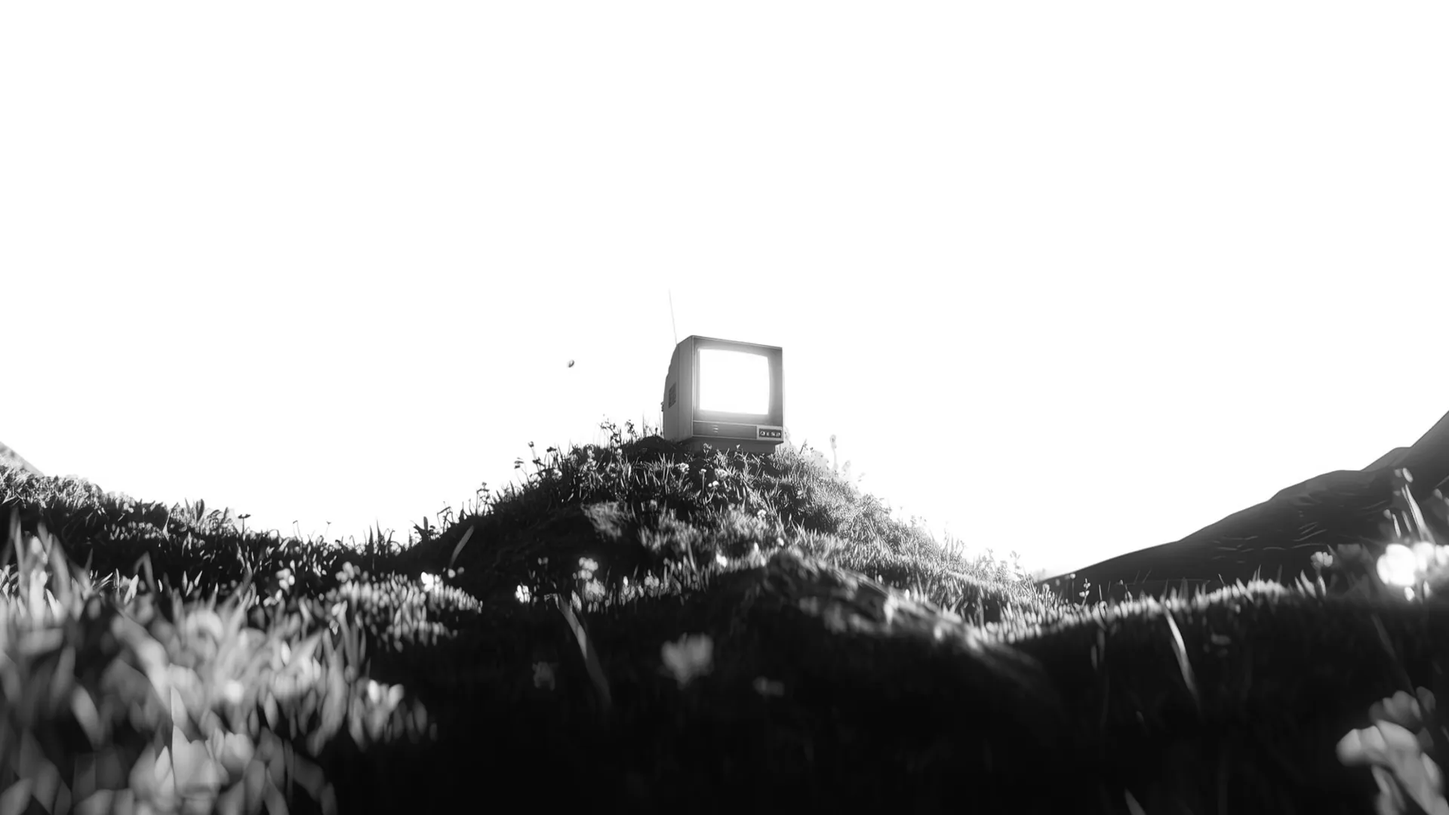
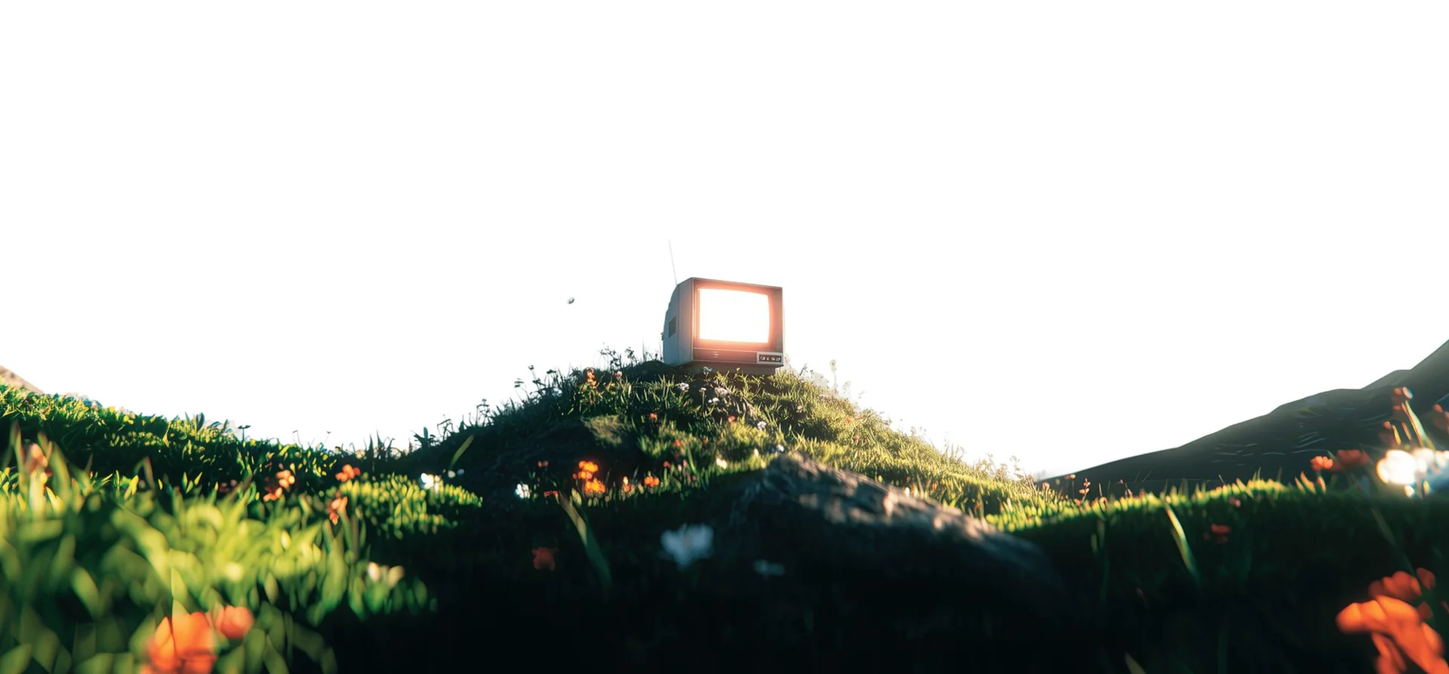
feat(pitch): bring color and visual storytelling to every slide

diff --git a/pitch/src/color.css b/pitch/src/color.css
@@ -1,0 +1,28 @@
+:root{--grass:#25634a;--leaf:#a9c77b;--poppy:#ff6b35;--cream:#faf4e8;--earth:#222b24;--sky:#e4f0f5}
+.slide{color:var(--earth)}.dark-slide{color:#fff}.eyebrow{color:var(--grass)}.progress{background:var(--grass)}.dark-slide .progress{background:var(--leaf)}
+.tutorial-wall{position:absolute;inset:-150px -60px;display:grid;grid-template-columns:repeat(4,1fr);gap:28px;transform:rotate(-9deg);animation:wall-drift 35s ease-in-out infinite alternate;opacity:.83}
+.thumbnail{border-radius:20px;overflow:hidden;background:white;box-shadow:0 10px 30px #142d2515;align-self:start}.thumbnail:nth-child(even){transform:translateY(90px)}.thumbnail-art{height:250px;background:var(--app);position:relative;overflow:hidden;color:white}.thumbnail-art>b{position:absolute;left:32px;top:25px;font-size:66px;letter-spacing:-4px}.thumbnail-art svg{position:absolute;right:-10px;bottom:0;width:270px;stroke:white;stroke-width:2;fill:#ffffff16;transform:rotate(-12deg)}.thumbnail-art small{position:absolute;right:15px;bottom:15px;background:#131b22dd;padding:7px 10px;border-radius:5px;font:16px var(--mono)}.thumbnail p{font-size:23px;padding:20px 24px}.play-symbol{position:absolute;top:42%;left:46%;background:#ffffffdd;color:var(--app);border-radius:50%;width:62px;height:62px;text-align:center;line-height:62px}
+.cold{position:relative;z-index:1}.cold h1{font-size:137px;background:#fffffff2;padding:52px 75px 60px;border-radius:28px;box-shadow:0 20px 70px #18352420;border:1px solid #fff;backdrop-filter:blur(12px);max-width:1450px}.slide-1 footer{color:#223f31}
+.slide-2{background:#16231d}.slide-2 h1{font-size:67px}.slide-2 .eyebrow{margin-bottom:24px;color:#b7ce9a}.pain-windows{display:grid;grid-template-columns:1fr 140px 1fr;align-items:center;margin-top:35px}.mini-app{border-radius:18px;border:1px solid #ffffff25;overflow:hidden;background:#28312f;color:#e3ebe6;box-shadow:0 22px 50px #0002}.mini-title{height:42px;background:#36433d;display:flex;gap:8px;align-items:center;padding:0 17px;font-size:13px}.mini-title i{width:9px;height:9px;border-radius:50%;background:#ed7152}.mini-title i:nth-child(2){background:#eac272}.mini-title i:nth-child(3){background:#a0c780}.mini-title span{margin-left:14px;flex:1}.mini-title b{float:right;font:12px var(--mono);color:#bdcaba}.mini-menu{font-size:17px;padding:14px 20px;background:#414942}.mini-menu em{font-style:normal;color:#ff9b69}.mini-canvas{height:235px;position:relative;background:#26312e}.mini-canvas svg{width:100%;height:100%;stroke:#78918640;fill:none}.mini-canvas ellipse{stroke:#ed9560;stroke-width:15;fill:#dbba8d25}.mini-canvas ellipse:last-child{stroke-width:2;fill:#253e33}.mini-dropdown{position:absolute;left:80px;top:14px;display:grid;padding:12px;background:#536150;border:1px solid #adbc9a44;border-radius:9px;box-shadow:0 10px 15px #0003;font-size:16px;min-width:140px}.mini-dropdown span,.mini-dropdown strong{padding:6px 14px}.mini-dropdown strong{background:#e6905a;color:#241e16;border-radius:4px;font-weight:500}.mini-dropdown.moved{left:auto;right:35px;top:35px}.mini-dropdown.moved strong{background:#7e5541;color:#ffd7b2}.question-marker{position:absolute;right:10px;bottom:15px;background:var(--poppy);width:60px;height:60px;border-radius:50%;text-align:center;font:500 42px var(--sans);line-height:60px;color:#fff;box-shadow:0 8px 20px #0003}.youtube-controls{display:flex;align-items:center;gap:18px;padding:10px 16px;background:#121615}.youtube-controls i{height:5px;border-radius:4px;background:#fa423b;width:65%}.youtube-controls small{font:11px var(--mono)}.alt-tab{text-align:center;color:#f7ac78}.alt-tab>span{display:block;font-size:75px;animation:bounce-tab 1.4s ease-in-out infinite alternate}.alt-tab label{font-size:13px;color:#bed2bd}
+.slide-2 .timeline{margin-top:25px}.slide-2 .video-time{font-size:30px}.slide-2 .track{height:7px;margin-top:12px;background:#ff6b35}.slide-2 .markers{padding-top:15px}.slide-2 .markers span{padding:10px 24px;background:#3c523e;color:#e8f5ce;border-color:#9cae7155}.slide-2 .markers span:nth-child(2){background:#654836;color:#ffcca3}.slide-2 .markers span:nth-child(3){background:#2f4e59;color:#c0e1e7}.slide-2 .elapsed{position:absolute;right:0;bottom:-38px;margin:0}.slide-2 .elapsed .time-digits{font-size:126px;color:var(--poppy)}
+.slide-3{background:var(--cream)}.slide-3 .eyebrow{margin-bottom:25px}.slide-3 h1{font-size:91px}.mismatch{display:grid;grid-template-columns:1fr 100px 1fr;align-items:center;margin-top:65px}.mismatch>div>label{color:var(--grass);font-size:16px;margin-bottom:20px}.mismatch-arrow{text-align:center;font-size:70px;color:#bf6240}.mismatch .mini-canvas{height:310px}.mismatch .mini-dropdown{top:30px;font-size:21px;min-width:190px}.mismatch .mini-title{height:50px;font-size:17px}.mismatch .mini-menu{font-size:22px}.mismatch .youtube-controls{height:45px}.mismatch .mini-app:not(.video-app){padding-bottom:45px}.slide-3 .sub{font-size:28px;margin-top:32px}
+.slide-4 .reveal>img{margin-bottom:17px;width:46px;height:46px}.slide-4 .reveal .eyebrow{margin-bottom:18px;font-size:14px}.slide-4 .reveal h1{font-size:125px}.slide-4 .reveal .sub{max-width:700px;font-size:25px;margin-top:16px}.slide-4 .brand-scene,.slide-16 .brand-scene{transform-origin:50% 70%}.slide-4 .cursor{top:205px!important}.slide-16 .closing h1{font-size:117px}.slide-16 .closing .mark{width:46px;margin-bottom:20px}.slide-16 .closing .sub{font-size:25px;margin-top:20px}
+.demo>div:last-child{filter:none}.window-dots i{background:#ee755b}.window-dots i:nth-child(2){background:#e3bc62}.window-dots i:nth-child(3){background:#75ad71}.feature{grid-template-columns:.82fr 1.18fr;gap:80px;height:775px}.feature h1{font-size:72px}.feature .sub{font-size:26px;max-width:560px}.feature-stage{position:relative;min-height:740px;display:flex;align-items:center;padding:70px 24px;background:#f8e9da;border-radius:45px}.feature-stage .demo{position:relative;width:100%;z-index:1;background:#fffaf3;border-color:#ebc8a0;box-shadow:0 35px 60px -25px #75422440}.feature-stage .demo-label{color:#9c5024}.feature-stage-1{background:#e5efdc}.feature-stage-1 .demo{background:#f5f9f0;border-color:#b5cf9b}.feature-stage-1 .demo-label{color:#216c3b}.feature-stage-2{background:#e5f0f2}.feature-stage-2 .demo{background:#f5fbfb;border-color:#bad7dc}.feature-stage-2 .demo-label{color:#3b7f8c}.feature-stage-3{background:#f4efd9}.feature-stage-3 .demo{background:#fffcf1;border-color:#ded1a0}.feature-stage-3 .demo-label{color:#88732f}.feature-stage-4{background:#e0eadd}.feature-stage-4 .demo{background:#f2f7ed;border-color:#aeca9f}.feature-stage-4 .demo-label{color:#29633f}
+.feature-life{position:absolute;inset:0;z-index:2;pointer-events:none;font-size:21px}.feature-life>div{box-shadow:0 16px 35px #243a2920;border:1px solid #ffffffcf}.feature-life label{font-size:11px;color:var(--grass);margin-bottom:7px}.link-chip{position:absolute;left:-40px;top:20px;display:flex;align-items:center;gap:15px;background:#fff;padding:21px 25px;border-radius:17px;font:19px var(--mono);transform:rotate(-3deg)}.youtube-brand{background:#ef3832;color:#fff;padding:4px 12px;border-radius:7px}.transform-arrow{position:absolute;right:85px;top:25px;font-size:75px;color:#bc6b3c}.steps-card{position:absolute;right:-15px;bottom:12px;background:#fff;padding:18px 24px;border-radius:18px;width:355px;transform:rotate(3deg)}.steps-card>div{display:flex;align-items:center;gap:15px;padding:9px 0;font-size:19px}.steps-card b{display:grid;place-items:center;width:29px;height:29px;border-radius:50%;font:13px var(--mono);background:#e9b57e;color:#703e24}.steps-card>div:nth-child(2) b{background:#bed1a0;color:#275337}.steps-card>div:nth-child(3) b{background:#bfdae0;color:#275366}.steps-card span{margin-left:auto;color:var(--grass)}.verified-card{position:absolute;left:-30px;bottom:28px;background:#fff;padding:23px;border-radius:18px;display:flex;align-items:center;gap:17px;transform:rotate(-3deg)}.verified-card>span{background:var(--grass);color:#fff;width:42px;height:42px;border-radius:50%;display:grid;place-items:center}.target-ring{position:absolute;right:110px;top:155px;width:65px;height:65px;border:3px solid #ff6b35!important;border-radius:50%;box-shadow:0 0 0 12px #ff6b3518!important}.voice-card{position:absolute;top:15px;left:-30px;padding:18px 28px;background:#fff;border-radius:20px;transform:rotate(-3deg)}.waveform{height:65px;display:flex;align-items:center;gap:6px}.waveform i{width:6px;background:#328b82;border-radius:6px;animation:voice-wave .8s ease-in-out infinite alternate}.waveform i:nth-child(3n){background:var(--poppy)}.voice-card>span{font:12px var(--mono);color:#568078}.chat-card{position:absolute;right:-10px;bottom:24px;background:#fff;padding:23px 28px;border-radius:22px 22px 4px 22px;transform:rotate(2deg)}.chat-card b{display:block;font-weight:450;color:var(--grass);margin-top:12px;font-size:18px}.goal-card{position:absolute;top:18px;left:-30px;right:30px;padding:20px 25px;background:#fff;border-radius:18px;transform:rotate(-2deg)}.goal-card span{float:right;background:var(--grass);color:white;padding:2px 8px;border-radius:5px}.source-cards{position:absolute;bottom:25px;left:25px;right:25px;display:flex;gap:13px;box-shadow:none!important;border:0!important}.source-cards>div{background:#fff;padding:18px;flex:1;border-radius:15px;box-shadow:0 10px 30px #4f482e20;display:flex;align-items:center;gap:13px;animation:source-pop .9s ease both}.source-cards i{font-style:normal;font-size:30px;color:#b78235}.source-cards span{margin-left:auto;color:var(--grass)}.consent-card{position:absolute;bottom:18px;left:-30px;right:30px;display:flex;align-items:center;gap:20px;background:#fff;padding:25px 30px;border-radius:21px;transform:rotate(-2deg)}.consent-toggle{margin-left:auto;display:block;background:var(--grass);padding:5px;border-radius:40px;width:77px;height:42px}.consent-toggle i{display:block;width:32px;height:32px;border-radius:50%;background:#fff;transform:translateX(35px);animation:toggle-on .9s ease both}.consent-card>b{color:var(--grass)}
+.power-strip{display:flex;align-items:center;gap:25px;padding:24px 0 0;margin-top:12px;border-top:1px solid #dde5d9}.power-strip label{font-size:12px;letter-spacing:.1em}.power-strip .pills{margin:0}.brand-chip,.pills span{background:#f3f5ec;font-size:14px;border-color:#e0e5d4}.pills .brand-gladia{color:#bd4732;background:#fff0e8}.pills .brand-holo,.pills .brand-h{color:#203e2b;background:#e6efdf}.pills .brand-linkup{color:#236fbb;background:#edf5fd}.pills .brand-gradium{color:#206c62;background:#edf5ec}.pills .brand-devin{color:#1d4f9b;background:#eaf1fc}.stripe-word{color:#635bff}
+.team-life{margin-top:30px}.avatar-stack{display:flex;align-items:center;padding-left:5px}.avatar-stack>span{border:4px solid #fff;width:62px;height:62px;display:grid;place-items:center;border-radius:50%;background:#dda36f;color:#4c3820;font:17px var(--mono);margin-left:-5px}.avatar-stack>span:nth-child(2){background:#a2c18c;color:#244830}.avatar-stack>span:nth-child(3){background:#abcad4;color:#2f5268}.avatar-stack>span:nth-child(4){background:#eec4a9;color:#815039}.avatar-stack small{font:13px var(--mono);margin-left:15px;color:var(--grass)}.usage-chart{background:#f0f4e9;border:1px solid #dbe6cf;border-radius:19px;width:435px;margin-top:23px;padding:20px 25px}.usage-chart label{font-size:12px;color:var(--grass)}.usage-chart>div{height:125px;display:flex;gap:15px;align-items:flex-end;margin-top:17px}.usage-chart i{flex:1;background:#91b373;border-radius:6px 6px 0 0;animation:bar-grow .8s ease both;transform-origin:bottom}.usage-chart i:nth-child(3n){background:#ed9a66}.usage-chart i:last-child{background:var(--grass)}.usage-chart>span{display:block;font:10px var(--mono);color:#627356;margin-top:10px}.usage-chart b{float:right;font-weight:400}.teams{height:830px}.teams h1{font-size:73px}.console-mock{border-color:#d0ddc5;box-shadow:0 30px 75px #26412e20;transform:rotate(1deg);background:#fff}.console-top{background:#eef4e6}.console-avatar{background:#b3d2a6;color:#275333}.console-body nav{background:#f5f8f0}.console-body nav .selected{background:#ddebd3;color:#235235}.console-add{background:var(--grass)}.console-result{background:#fffaf0;border-color:#e4dcc9}.console-result:nth-of-type(4){background:#f1f6ed;border-color:#dce6d3}.console-ready{background:#dfecd5;color:#315b35}
+.illustration{width:220px;height:145px;stroke:currentColor;stroke-width:3;stroke-linecap:round;stroke-linejoin:round}.illustration rect,.illustration circle{fill:currentColor;fill-opacity:.08}.prices{margin-top:40px;gap:22px}.prices>div{padding:25px 27px 32px;background:#faf0df;border:1px solid #eadbc4;border-radius:25px}.prices>div:nth-child(2){background:#e7f0dd;border-color:#cfdfba}.prices>div:nth-child(4){background:#e4eff1;border-color:#c9dde0}.prices .dark{background:#254d37;border-color:#254d37;box-shadow:0 20px 30px #1d472824}.prices .dark label{color:#d9ecc0}.prices .dark:before{content:'FOR YOUR WHOLE TEAM';display:block;font:11px var(--mono);background:#ff9e68;color:#402716;margin:-25px -27px 6px;padding:12px;border-radius:25px 25px 0 0;text-align:center;letter-spacing:.1em}.prices .illustration{display:block;margin:0 auto 15px;color:#a2743e;height:165px;width:250px}.prices>div:nth-child(2) .illustration{color:#538540}.prices>div:nth-child(3) .illustration{color:#d4e8b6;height:126px}.prices>div:nth-child(4) .illustration{color:#417f92}.prices label{font-size:17px;color:#43583c}.prices strong{font-size:68px;margin-top:22px}.prices p{font-size:18px;margin-top:17px}.slide-12 .footnote{font-size:17px;margin-top:35px}.slide-12 h1{font-size:95px}
+.slide-13 h1{font-size:83px;max-width:1200px}.slide-13 .eyebrow{margin-bottom:25px}.market-visual{height:510px;position:relative;margin-top:20px}.market-orbit{position:absolute;left:340px;top:0;width:620px;height:490px;border-radius:50%;background:#e0ebcd;border:1px solid #bacd9f;display:flex;flex-direction:column;align-items:center;padding-top:55px;color:#274b32}.market-orbit>span{font-size:25px}.market-orbit>strong{font-size:110px;letter-spacing:-5px;font-weight:550;line-height:1.1}.market-orbit>small{font:14px var(--mono);margin-top:10px}.dap-bubble{position:absolute;bottom:30px;left:-90px;width:245px;height:200px;border-radius:50%;background:#2f654b;color:#fff;display:flex;flex-direction:column;align-items:center;justify-content:center;border:7px solid white;box-shadow:0 15px 30px #264a3320}.dap-bubble b{font-size:50px;letter-spacing:-2px}.dap-bubble span{font:13px var(--mono);margin-top:8px}.exit-badge{position:absolute;right:40px;top:100px;padding:38px;background:#fae5cf;border:1px solid #e3b891;border-radius:25px;transform:rotate(4deg);width:450px;box-shadow:0 20px 30px #5b381b12}.exit-badge>span{font:13px var(--mono);color:#7e4e2e}.exit-badge strong{display:block;font-size:85px;color:#a34e25;letter-spacing:-5px;margin:12px 0}.exit-badge p{font-size:25px;color:#714b34}.market-visual>label{position:absolute;bottom:0;right:30px;font-size:11px;color:#77816c}.slide-13 .market{margin-top:20px;gap:25px}.slide-13 .market>div{padding-top:8px;border-color:#ddd}.slide-13 .market small{margin-top:0;font-size:11px;color:#677264}
+.gtm{position:relative;z-index:1;margin-top:50px;gap:45px}.gtm>div{border:1px solid #cfddbf;border-radius:30px;background:#e8f0dc;padding:25px 30px 35px}.gtm>div:nth-child(2){background:#fae7d3;border-color:#e7c4a3;transform:translateY(35px)}.gtm>div:nth-child(3){background:#e4f0f3;border-color:#bed8df;transform:translateY(70px)}.gtm .illustration{display:block;height:210px;width:100%;color:#5f8a46}.gtm>div:nth-child(2) .illustration{color:#b87a43}.gtm>div:nth-child(3) .illustration{color:#437f8f}.gtm h2{font-size:38px;letter-spacing:-1.5px;margin:20px 0 14px}.gtm p{font-size:20px}.gtm label{font-size:15px;color:var(--grass)}.slide-14 h1{font-size:90px}.flow-lines{position:absolute;left:108px;bottom:65px;width:1704px;height:160px;stroke:#a4be8b;stroke-width:2;fill:var(--leaf)}.flow-travel{stroke:#ef9e6b;stroke-width:7;stroke-dasharray:12 140;animation:flow 5s linear infinite}.slide-14 .flow-lines{bottom:65px}
+.slide-15{background:#17221c}.slide-15 h1{font-size:85px}.slide-15 .architecture{gap:35px;margin-top:60px}.slide-15 .stack{background:#233f2f;border:1px solid #54734a;padding:25px 25px 35px;border-radius:30px;position:relative;z-index:1}.slide-15 .stack.central{background:#593d2b;border-color:#a8754d}.slide-15 .stack:last-child{background:#233e49;border-color:#4d727c}.stack .illustration{height:190px;width:100%;display:block;color:#b5d397;margin-bottom:10px}.stack.central .illustration{color:#ffb47d}.stack:last-child .illustration{color:#a7d7e0}.slide-15 .stack label{margin-bottom:28px;color:#d2e1c6;font-size:12px}.slide-15 .stack h3{font-size:31px}.slide-15 .stack p{color:#d3dfcd;font-size:21px}.slide-15 .central h2{font-size:64px;margin-bottom:16px}.slide-15 .central h3{margin-bottom:8px}.slide-15 .central .pills{margin-top:22px}.slide-15 .central .pills span{background:#fff4e7;color:#734724;border:none}.node-chip{display:inline-block;border:1px solid #ffffff30;background:#ffffff0a;border-radius:25px;padding:12px 20px;margin-top:30px;font:14px var(--mono);color:#e1ebd7}.slide-15 .flow-lines{bottom:70px;height:235px}.slide-14 .flow-lines{height:260px}
+.slide-17 h1{font-size:96px;max-width:1600px}.limits{margin-top:60px;gap:35px}.limits>div{border:1px solid #cfdfba;background:#edf3e5;padding:25px 30px 40px;border-radius:28px}.limits>div:nth-child(2){background:#e6f0f3;border-color:#c7dce2}.limits>div:nth-child(3){background:#faebd9;border-color:#e6ceb0}.limits .illustration{display:block;width:100%;height:220px;color:#668a4e}.limits>div:nth-child(2) .illustration{color:#4d8491}.limits>div:nth-child(3) .illustration{color:#b37b42}.limits label{margin-top:15px;font-size:14px;color:#496242}.limits h3{font-size:32px;margin:20px 0 15px}.limits p{font-size:23px;line-height:1.5}
+.flow-lines path{fill:none}
+@keyframes wall-drift{from{translate:0 0}to{translate:-25px -70px}}
+@keyframes bounce-tab{from{transform:translateX(-8px)}to{transform:translateX(8px)}}
+@keyframes voice-wave{from{transform:scaleY(.45)}to{transform:scaleY(1)}}
+@keyframes source-pop{from{opacity:0;transform:translateY(20px)}to{opacity:1;transform:none}}
+@keyframes toggle-on{from{transform:translateX(0);background:#e0e9d5}to{transform:translateX(35px);background:#fff}}
+@keyframes bar-grow{from{transform:scaleY(.1)}to{transform:scaleY(1)}}
+@keyframes flow{to{stroke-dashoffset:-304}}
+.print *,.print *::before,.print *::after,.reduced *{animation:none!important}
+@media(prefers-reduced-motion:reduce){*,*::before,*::after{animation:none!important}}

diff --git a/pitch/src/main.tsx b/pitch/src/main.tsx
@@ -12,6 +12,8 @@ import '@fontsource/geist-mono/400.css';
 import '@fontsource/ibm-plex-mono/400.css';
 import './style.css';
 import './modern.css';
+import './color.css';
+import {TutorialWall, Mismatch, PainWindows, FeatureLife, TeamLife, Illustration, MarketVisual, FlowLines} from './visuals';
 import mark from '../public/rio-mark-black.svg?inline';
 import qr from '../public/qr.svg?inline';
 import revealImage from '../public/readme-hero.webp?inline';
@@ -47,7 +49,7 @@ function Demo({kind='blender',large=false}:{kind?:string;large?:boolean}) {
    <div className="console-bottom"><span>Shared with your team</span><span>2 tutorials</span></div></div></div></div>;
  const c=kind==='voice'?Voice:kind==='sheet'?Spreadsheet:Blender;
  const frames=kind==='blender'?360:270;
- return <div className={'demo '+(large?'large':'')}><div className="demo-label"><span className="window-dots"><i/><i/><i/></span><span>RIO / PRODUCT WALKTHROUGH</span><span>↗</span></div><Player component={c} durationInFrames={frames} fps={30} compositionWidth={640} compositionHeight={400} autoPlay={!print&&!reduced} loop muted controls={false} initialFrame={kind==='blender'?260:130} style={{width:'100%'}}/></div>
+ return <div className={'demo '+(large?'large':'')}><div className="demo-label"><span className="window-dots"><i/><i/><i/></span><span>RIO / PRODUCT WALKTHROUGH</span><span>↗</span></div><Player component={c} durationInFrames={frames} fps={30} compositionWidth={640} compositionHeight={400} autoPlay={!print&&!reduced} loop muted controls={false} initialFrame={print||reduced?(kind==='blender'?330:218):(kind==='blender'?260:130)} style={{width:'100%'}}/></div>
 }
 const features=[
  {title:'Any YouTube tutorial becomes a live lesson.',sub:'Paste a link. Start doing.',kind:'blender',problem:'A linear video cannot see your app.',how:'Transcript + key frames → milestones linked to video timestamps.',power:['Gladia','Holo vision','Holo 4 27B']},
@@ -56,7 +58,7 @@ const features=[
  {title:'No tutorial? Just say your goal.',sub:'“Make a budget chart in Calc.”',kind:'sheet',problem:'The right tutorial does not always exist.',how:'Research several sources → a lesson. Web-page text first; web agent if needed.',power:['H Agents deep-search-pro','web-surfer-pro','Linkup fallback']},
  {title:'Did it once? Rio does it for you next time.',sub:'Your consent. Stop anytime. Check the result.',kind:'blender',problem:'Learning the task should not mean repeating it forever.',how:'Reuse milestones → act → verify. Fast mode skips narration.',power:['Holo computer use','Devin · eligible runs → tested scripts']}
 ];
-function Feature({i}:{i:number}) {const f=features[i];return <><div className="feature"><div><p className="eyebrow">0{i+1} / {['PASTE A LINK','FOLLOW THE CURSOR','ASK ANYTHING','START WITH A GOAL','DELEGATE'][i]}</p><h1>{f.title}</h1><p className="sub">{f.sub}</p></div><Demo kind={f.kind}/></div><div className="triptych"><div><label>PROBLEM</label><p>{f.problem}</p></div><div><label>HOW IT WORKS →</label><p>{f.how}</p></div><div><label>POWERED BY</label><div className="pills">{f.power.map(p=><span key={p}>{p}</span>)}</div></div></div>{i===1&&<Cursor x={1460} y={570}/>}</>}
+function Feature({i}:{i:number}) {const f=features[i];return <><div className="feature"><div><p className="eyebrow">0{i+1} / {['PASTE A LINK','FOLLOW THE CURSOR','ASK ANYTHING','START WITH A GOAL','DELEGATE'][i]}</p><h1>{f.title}</h1><p className="sub">{f.sub}</p></div><div className={'feature-stage feature-stage-'+i}><Demo kind={f.kind}/><FeatureLife i={i}/></div></div><div className="power-strip"><label>POWERED BY</label><div className="pills">{f.power.map(p=><span className={'brand-chip brand-'+p.split(' ')[0].toLowerCase()} key={p}>{p}</span>)}</div></div>{i===1&&<Cursor x={1490} y={570}/>}</>}
 function Pain(){
  const reduced=useReducedMotion();
  const counter=useRef<HTMLSpanElement>(null);
@@ -66,25 +68,25 @@ function Pain(){
   const tick=(now:number)=>{const t=Math.min(1,(now-start)/2400);const seconds=Math.round(600+3000*(1-Math.pow(1-t,3)));if(counter.current)counter.current.textContent=Math.floor(seconds/60)+':'+String(seconds%60).padStart(2,'0');if(t<1)frame=requestAnimationFrame(tick)};
   frame=requestAnimationFrame(tick);return()=>cancelAnimationFrame(frame);
  },[reduced]);
- return <><p className="eyebrow">THE TUTORIAL TAX</p><h1>A 10-min tutorial takes an hour.<br/>A 1-hour tutorial takes the afternoon.</h1><div className="timeline"><div className="video-time">10:00 <span>OF VIDEO</span></div><motion.div className="track" initial={print||reduced?false:{width:'16.67%'}} animate={{width:'100%'}} transition={{duration:2.4,ease:EASE}}/><div className="markers">{['Pause','Rewind','Alt-tab','Pause','Rewind','Alt-tab'].map((x,i)=><motion.span key={i} initial={print||reduced?false:{opacity:0,y:12,scale:.9}} animate={{opacity:1,y:0,scale:1}} transition={{delay:print||reduced?0:.4+i*.17,ease:EASE}}>{x}</motion.span>)}</div><p className="elapsed"><span className="time-digits" ref={counter}>60:00</span><span>OF YOUR TIME</span></p></div></>;
+ return <><p className="eyebrow">THE TUTORIAL TAX</p><h1>A 10-min tutorial takes an hour.<br/>A 1-hour tutorial takes the afternoon.</h1><PainWindows/><div className="timeline"><div className="video-time">10:00 <span>OF VIDEO</span></div><motion.div className="track" initial={print||reduced?false:{width:'16.67%'}} animate={{width:'100%'}} transition={{duration:2.4,ease:EASE}}/><div className="markers">{['Pause','Rewind','Alt-tab'].map((x,i)=><motion.span key={i} initial={print||reduced?false:{opacity:0,y:12,scale:.9}} animate={{opacity:1,y:0,scale:1}} transition={{delay:print||reduced?0:.4+i*.17,ease:EASE}}>{x}</motion.span>)}</div><p className="elapsed"><span className="time-digits" ref={counter}>60:00</span><span>OF YOUR TIME</span></p></div></>;
 }
-function Market(){return <><p className="eyebrow">A CATEGORY ALREADY VALIDATED</p><h1>Software is everywhere.<br/>Knowing how to use it isn’t.</h1><div className="market"><div><strong>$816M</strong><h3>Digital adoption platforms</h3><p>2023 worldwide revenue estimate</p><small>Gartner, 2024 Market Guide<br/>via WalkMe · walkme.com/content/2024-gartner-market-guide-for-digital-adoption-platforms/</small></div><div><strong>$1.5B</strong><h3>SAP acquired WalkMe</h3><p>Equity value · completed Sept. 2024</p><small>SAP News Center · 12 Sep 2024<br/>news.sap.com/2024/09/sap-completes-walkme-acquisition/</small></div><div><strong>$104B</strong><h3>Corporate e-learning</h3><p>2024 global market</p><small>Grand View Research · 2025 report<br/>grandviewresearch.com/industry-analysis/corporate-e-learning-market-report</small></div></div><p className="position">Traditional authored flows require setup. Rio turns an existing tutorial into guidance.</p></>}
-function Architecture(){return <><p className="eyebrow">ARCHITECTURE / BUILT AROUND H COMPANY</p><h1>Local guidance. Connected intelligence.</h1><div className="architecture"><div className="stack"><label>USER’S COMPUTER</label><h3>React</h3><p>Bar · ghost cursor · notch</p><b>↕</b><h3>Tauri / Rust</h3><p>Tutor · autopilot · user’s software</p><b>↓</b><h3>Phonon</h3><p>Local voice synthesis</p></div><div className="stack central"><label>AI SERVICES ↔ DESKTOP + CLOUD</label><h2>H Company</h2><h3>Holo + H Agents</h3><p>Vision · grounding · planning<br/>Web reading · deep research</p><div className="pills"><span>Gladia · transcription</span><span>Linkup · web fallback</span><span>Devin · tested scripts</span></div></div><div className="stack"><label>RIO CLOUD ↔ DESKTOP</label><h3>Cloudflare Worker</h3><p>Rio API</p><b>↕</b><h3>D1 + knowledge</h3><p>Team library · search</p><b>↕</b><h3>Web console</h3><p>Members · usage · Stripe billing</p></div></div></>}
+function Market(){return <><p className="eyebrow">A CATEGORY ALREADY VALIDATED</p><h1>Software is everywhere.<br/>Knowing how to use it isn’t.</h1><MarketVisual/><div className="market"><div><small>Gartner, 2024 Market Guide<br/>via WalkMe · walkme.com/content/2024-gartner-market-guide-for-digital-adoption-platforms/</small></div><div><small>SAP News Center · 12 Sep 2024<br/>news.sap.com/2024/09/sap-completes-walkme-acquisition/</small></div><div><small>Grand View Research · 2025 report<br/>grandviewresearch.com/industry-analysis/corporate-e-learning-market-report</small></div></div></>}
+function Architecture(){return <><p className="eyebrow">ARCHITECTURE / BUILT AROUND H COMPANY</p><h1>Local guidance. Connected intelligence.</h1><div className="architecture"><div className="stack"><Illustration/><label>USER’S COMPUTER</label><h3>React + Tauri / Rust</h3><p>Tutor · cursor · autopilot</p><span className="node-chip">Phonon · local voice</span></div><div className="stack central"><Illustration kind={1}/><label>AI SERVICES ↔ DESKTOP + CLOUD</label><h2>H Company</h2><h3>Holo + H Agents</h3><p>Vision · grounding · research</p><div className="pills"><span className="brand-gladia">Gladia</span><span className="brand-linkup">Linkup</span><span className="brand-devin">Devin</span></div></div><div className="stack"><Illustration kind={3}/><label>RIO CLOUD ↔ DESKTOP</label><h3>Cloudflare Worker</h3><p>D1 · knowledge · team console</p><span className="node-chip">Stripe · billing</span></div></div><FlowLines/></>}
 function Content({n}:{n:number}) {
  if(n>=4&&n<=8)return <Feature i={n-4}/>;
  switch(n){
- case 0:return <div className="center cold"><HeroTitle lines={['Who here learned','a software from','a YouTube tutorial?']}/></div>;
+ case 0:return <><TutorialWall/><div className="center cold"><HeroTitle lines={['Who here learned','a software from','a YouTube tutorial?']}/></div></>;
  case 1:return <Pain/>;
- case 2:return <><p className="eyebrow">WHY IT BREAKS</p><h1 className="huge">The video can’t<br/>see your screen.</h1><div className="reasons">{['The menu moved.','Your version is different.','You’re stuck and nobody tells you why.'].map((s,i)=><p key={s}><label>0{i+1}</label>{s}</p>)}</div><Cursor x={1380} y={350}/></>;
+ case 2:return <><p className="eyebrow">WHY IT BREAKS</p><h1 className="huge">The video can’t see your screen.</h1><Mismatch/><p className="sub">The menu moved. Your version is different. You’re stuck.</p><Cursor x={1470} y={650}/></>;
  case 3:return <><BrandScene/><div className="reveal"><img src={mark}/><p className="eyebrow">YOUR IN-APP LEARNING COMPANION</p><HeroTitle lines={['That’s over. Meet Rio.']}/><p className="sub">Paste a tutorial. Rio walks you through it inside your own app.</p></div><Cursor x={1350} y={280}/></>;
  case 9:return <><div className="demo-title"><p className="eyebrow">DEMO / BLENDER</p><h1>Live: a donut in 5 steps in Blender.</h1></div><Demo large/></>;
- case 10:return <><div className="feature teams"><div><p className="eyebrow">WHO PAYS</p><h1>Every new hire replays the same tutorials.</h1><p className="sub">From individual learning to team onboarding.</p><div className="audiences"><p><label>01 / LEARNER + PRO</label>Individuals learning software</p><p><label>02 / TEAM</label>Internal tools. Shared knowledge.</p></div></div><Demo kind="teams"/></div><p className="bottom-line">The team console brings tutorials, knowledge, members and usage together.</p></>;
- case 11:return <><p className="eyebrow">PRICING / USD</p><h1>Start free. Grow with your team.</h1><div className="prices">{PLANS.map(p=><div key={p.id} className={p.dark?'dark':''}><label>{p.name}</label><strong>{p.monthly===null?'Custom':'$'+p.monthly}<small>{p.monthly? p.seats?'/seat/mo':'/mo':''}</small></strong><p>{p.annual? '$'+p.annual+(p.seats?'/seat/mo':'/mo')+' billed annually':p.tagline}</p><p>{p.f[0]}<br/>{p.f[1]}</p></div>)}</div><div className="economics"><label>WHY THE MARGINS CAN WORK</label><p>Fast model for step guidance → larger model for planning → research once at creation.</p><p>Reuse the tutorial across the team.</p></div><p className="footnote">Payments by Stripe</p></>;
+ case 10:return <><div className="feature teams"><div><p className="eyebrow">WHO PAYS</p><h1>Every new hire replays the same tutorials.</h1><p className="sub">From individual learning to team onboarding.</p><TeamLife/></div><Demo kind="teams"/></div></>;
+ case 11:return <><p className="eyebrow">PRICING / USD</p><h1>Start free. Grow with your team.</h1><div className="prices">{PLANS.map((p,i)=><div key={p.id} className={p.dark?'dark':''}><Illustration kind={i}/><label>{p.name}</label><strong>{p.monthly===null?'Custom':'$'+p.monthly}<small>{p.monthly? p.seats?'/seat/mo':'/mo':''}</small></strong><p>{p.annual? '$'+p.annual+(p.seats?'/seat/mo':'/mo')+' billed annually':p.tagline}</p><p>{p.f[0]}<br/>{p.f[1]}</p></div>)}</div><p className="footnote">Payments by <b className="stripe-word">Stripe</b> · Research once. Reuse across the team.</p></>;
  case 12:return <Market/>;
- case 13:return <><p className="eyebrow">GO-TO-MARKET / THE PLAN</p><h1>Win the learner.<br/>Become the team’s memory.</h1><div className="gtm">{[['01','Public tutorial library','SEO: “how to X in Y”','Meet people at the moment they are stuck.'],['02','Team console','Shared lessons + internal knowledge','One lesson becomes an onboarding asset.'],['03','Enterprise','Internal tools + SSO','Expand through deeper deployment needs.']].map(([a,b,c,d])=><div key={a}><label>{a} →</label><h2>{b}</h2><p>{c}</p><small>{d}</small></div>)}</div></>;
+ case 13:return <><p className="eyebrow">GO-TO-MARKET / THE PLAN</p><h1>Win the learner.<br/>Become the team’s memory.</h1><div className="gtm">{[['01','Public tutorial library','SEO: “how to X in Y”'],['02','Team console','Shared lessons + internal knowledge'],['03','Enterprise','Internal tools + SSO']].map(([a,b,c],i)=><div key={a}><Illustration kind={[0,2,3][i]}/><label>{a} →</label><h2>{b}</h2><p>{c}</p></div>)}</div><FlowLines/></>;
  case 14:return <Architecture/>;
  case 15:return <><BrandScene close/><div className="closing"><img className="mark" src={mark}/><HeroTitle lines={['Stop watching tutorials.','Do them.']}/><p className="sub">Built at the H Company hackathon.</p></div><div className="qr"><img src={qr} alt="QR code to rio.vignemale.com"/><p>rio.vignemale.com</p></div><Cursor x={1480} y={295}/></>;
- default:return <><p className="eyebrow">APPENDIX / HONEST LIMITS & HOW WE TEST</p><h1>Trust is earned<br/>on the actual screen.</h1><div className="limits"><div><label>TEST</label><h3>A learner simulator</h3><p>Replays real tutor runs with mistakes.<br/>Scores the actual app state, not just what the model says.</p></div><div><label>CONTROL</label><h3>You stay in charge</h3><p>Consent gate before autopilot actions.<br/>Stop anytime. Verify before reporting success.</p></div><div><label>LIMITS</label><h3>Not universal reliability</h3><p>Pointing accuracy. Vague requests.<br/>Linux Wayland unsupported.</p></div></div></>;
+ default:return <><p className="eyebrow">APPENDIX / HONEST LIMITS & HOW WE TEST</p><h1>Trust is earned on the actual screen.</h1><div className="limits"><div><Illustration/><label>TEST</label><h3>A learner simulator</h3><p>Replays real runs. Checks the app state.</p></div><div><Illustration kind={2}/><label>CONTROL</label><h3>You stay in charge</h3><p>Consent first. Stop anytime. Verify results.</p></div><div><Illustration kind={1}/><label>LIMITS</label><h3>Not universal reliability</h3><p>Pointing & vague requests. No Wayland.</p></div></div></>;
  }}
 function Slide({n}:{n:number}){const reduced=useReducedMotion();return <section className={'slide slide-'+(n+1)+([1,9,14].includes(n)?' dark-slide':'')+(reduced?' reduced':'')}><div className="progress" style={{width:((n+1)/17*100)+'%'}}/><div className="slide-content"><Content n={n}/></div><footer><span>{n===0?'':'RIO / LEARN BY DOING'}</span><span>{String(n+1).padStart(2,'0')} / 17</span></footer></section>}
 function readHash(){const v=Number(location.hash.slice(1));return Number.isFinite(v)?Math.max(0,Math.min(16,v-1)):0}

diff --git a/pitch/src/visuals.tsx b/pitch/src/visuals.tsx
@@ -1,0 +1,18 @@
+const tutorials=[['Blender for beginners','Bl','10:32','#e98a37'],['Excel pivot tables','X','1:02:14','#24754e'],['DaVinci Resolve in 20 min','Da','20:00','#315d70'],['Figma auto-layout','Fi','14:26','#c75c45'],['VS Code tips','</>','08:45','#277ca0'],['Your first 3D scene','3D','32:10','#7b8948']];
+
+export function TutorialWall(){return <div className="tutorial-wall" aria-hidden="true">{[...tutorials,...tutorials].map(([title,app,duration,color],i)=><div className="thumbnail" key={i} style={{'--app':color} as React.CSSProperties}><div className="thumbnail-art"><b>{app}</b><svg viewBox="0 0 160 100"><rect x="25" y="15" width="110" height="70" rx="6"/><path d="M36 70L65 40L84 60L112 28M36 80H124"/></svg><span className="play-symbol">▶</span><small>{duration}</small></div><p>{title}</p></div>)}</div>}
+
+function MiniApp({video=false,moved=false}:{video?:boolean;moved?:boolean}){return <div className={'mini-app '+(video?'video-app':'')}><div className="mini-title"><i/><i/><i/><span>{video?'Blender basics · YouTube':'Your Blender'} <b>v{moved?'4.5':'3.0'}</b></span></div><div className="mini-menu">File　 Edit　 View　 <em>{moved?'Object':'Add'}</em>　 Help</div><div className="mini-canvas"><svg viewBox="0 0 500 230"><path d="M0 190L500 90M0 150L500 50M0 110L500 10M60 230L240 0M180 230L360 0M300 230L480 0"/><ellipse cx="255" cy="130" rx="72" ry="39"/><ellipse cx="255" cy="130" rx="35" ry="15"/></svg><div className={'mini-dropdown '+(moved?'moved':'')}><span>Mesh　 ›</span><span>Cube</span><strong>{moved?'Where is Torus?':'Torus'}</strong></div>{moved&&<b className="question-marker">?</b>}</div>{video&&<div className="youtube-controls"><span>Ⅱ</span><i/><small>03:24 / 10:00</small></div>}</div>}
+
+export function Mismatch(){return <div className="mismatch"><div><label>IN THE VIDEO</label><MiniApp video/></div><span className="mismatch-arrow">≠</span><div><label>ON YOUR SCREEN</label><MiniApp moved/></div></div>}
+export function PainWindows(){return <div className="pain-windows"><MiniApp video/><div className="alt-tab"><span>⇄</span><label>ALT + TAB</label></div><MiniApp moved/></div>}
+
+export function FeatureLife({i}:{i:number}){return <div className={'feature-life life-'+i}>{i===0?<><div className="link-chip"><span className="youtube-brand">▶</span> youtube.com/watch?v=…</div><span className="transform-arrow">↘</span><div className="steps-card">{['Open your app','Find the tool','Make it yours'].map((s,j)=><div key={s}><b>{j+1}</b>{s}<span>✓</span></div>)}</div></>:i===1?<><div className="verified-card"><span>✓</span><div><label>SCREEN CHECKPOINT</label>Step complete. Keep going.</div></div><div className="target-ring"/></>:i===2?<><div className="voice-card"><div className="waveform">{Array.from({length:23},(_,j)=><i key={j} style={{height:12+(j*17%49),animationDelay:j*.06+'s'}}/>)}</div><span>Listening to you</span></div><div className="chat-card">“What is this menu?”<b>Let me show you. ↗</b></div></>:i===3?<><div className="goal-card"><label>YOUR GOAL</label>Make a budget chart in Calc <span>↵</span></div><div className="source-cards">{['Docs','Forum','Web'].map((s,j)=><div key={s} style={{animationDelay:j*.2+'s'}}><i>{['≡','“','↗'][j]}</i>{s}<span>✓</span></div>)}</div></>:<div className="consent-card"><div><label>YOU’RE IN CONTROL</label>Rio does it for you</div><span className="consent-toggle"><i/></span><b>✓</b></div>}</div>}
+
+export function TeamLife(){return <div className="team-life"><div className="avatar-stack">{['AL','MK','JD','SC'].map(s=><span key={s}>{s}</span>)}<small>Shared know-how</small></div><div className="usage-chart"><label>TEAM ACTIVITY</label><div>{[28,45,36,64,52,85,96].map((n,i)=><i key={i} style={{height:n+'%'}}/>)}</div><span>Mon <b>Sun</b></span></div></div>}
+
+export function Illustration({kind=0}:{kind?:number}){return <svg className={'illustration illustration-'+kind} viewBox="0 0 240 140" fill="none" aria-hidden="true">{kind===0?<><rect x="36" y="25" width="160" height="94" rx="12"/><path d="M36 47H196M52 35H56M63 35H67M74 35H78M63 69L77 79L63 89Z"/><path d="M94 72H171M94 86H150M57 105H171"/></>:kind===1?<><path d="M44 111L82 68L116 83L177 30M150 30H177V57"/><circle cx="44" cy="111" r="10"/><circle cx="82" cy="68" r="10"/><circle cx="116" cy="83" r="10"/></>:kind===2?<><rect x="78" y="51" width="84" height="63" rx="10"/><circle cx="120" cy="31" r="16"/><circle cx="53" cy="59" r="13"/><circle cx="187" cy="59" r="13"/><path d="M36 110V91Q53 71 70 91M170 110V91Q187 71 204 91M103 82L116 94L140 70"/></>:<><path d="M41 117V57L91 37V117M91 117V23L149 36V117M149 117V64L195 49V117M30 117H209M107 55H132M107 75H132M107 95H132M53 78H76M163 84H183"/></>}</svg>}
+
+export function MarketVisual(){return <div className="market-visual"><div className="market-orbit"><span>Corporate e-learning</span><strong>$104B</strong><small>2024 global market</small><div className="dap-bubble"><b>$816M</b><span>DAP · 2023</span></div></div><div className="exit-badge"><span>CATEGORY EXIT / 2024</span><strong>$1.5B ↗</strong><p>SAP acquired WalkMe</p></div><label>ADJACENT MARKETS · CIRCLES NOT TO SCALE</label></div>}
+
+export function FlowLines(){return <svg className="flow-lines" viewBox="0 0 1704 160" preserveAspectRatio="none" aria-hidden="true"><path d="M260 0V80H1440V0M852 0V80"/><path className="flow-travel" d="M260 0V80H1440V0M852 0V80"/><circle cx="260" cy="80" r="6"/><circle cx="852" cy="80" r="6"/><circle cx="1440" cy="80" r="6"/></svg>}

diff --git a/pitch/README.md b/pitch/README.md
@@ -13,11 +13,11 @@ npm run build:single
 npx vite preview --port 4174 --host
 ```
 
-Build generates the QR SVG locally. Assets are self-contained; the Remotion compositions are copied from landing (including TutorialPlayer inside Blender), rendered in grayscale so orange belongs only to the deck's ghost cursor. Slide 11 uses a static, deck-styled console mock for a consistently finished presentation in browser and PDF. No paid template assets.
+Build generates the QR SVG locally. Assets are self-contained; the colored Remotion compositions are copied from landing (including TutorialPlayer inside Blender). Slide 11 uses a static, deck-styled console mock for a consistently finished presentation in browser and PDF. No paid template assets. HTML/SVG illustrations, tutorial thumbnails, and charts are presentation mockups, not product screenshots or measured usage.
 
 `npm run build:single` writes `out/rio-pitch.html`: double-click to open offline, with JS, CSS, fonts, QR and imagery inlined. It does not replace the normal `dist/` build. `node scripts/check-single.mjs` verifies local-file rendering with Chrome CDP on port 29229.
 
-Reveal/close use monochrome compressed versions of the two brand hill images (each under 65 KB). The baked wordmark is removed from the reveal image's white sky; the deck uses only the standalone R mark. Motion respects reduced-motion preferences. Print mode freezes players and renders all animated content at its final state.
+Reveal/close use compressed color versions of the two brand hill images (each under 400 KB). The baked wordmark is removed from the reveal image's white sky; the deck uses only the standalone R mark. Hill greens, poppy orange, earth, cream and sky tints carry through the visual scenes. Market circles are explicitly not to scale; the e-learning figure is adjacent context, not a Rio TAM. Sponsor chips are styled text, not invented logos. Motion respects reduced-motion preferences. Print mode freezes players and renders all animated content at its final state.
 
 Navigation: left/right, Space, PageUp/PageDown, Home/End. Click either half of the screen. N toggles notes, F fullscreen. Hashes are one-based: `#5`. Invalid hashes fall back to slide 1. The fixed 1920×1080 stage scales to fit any viewport.
 
